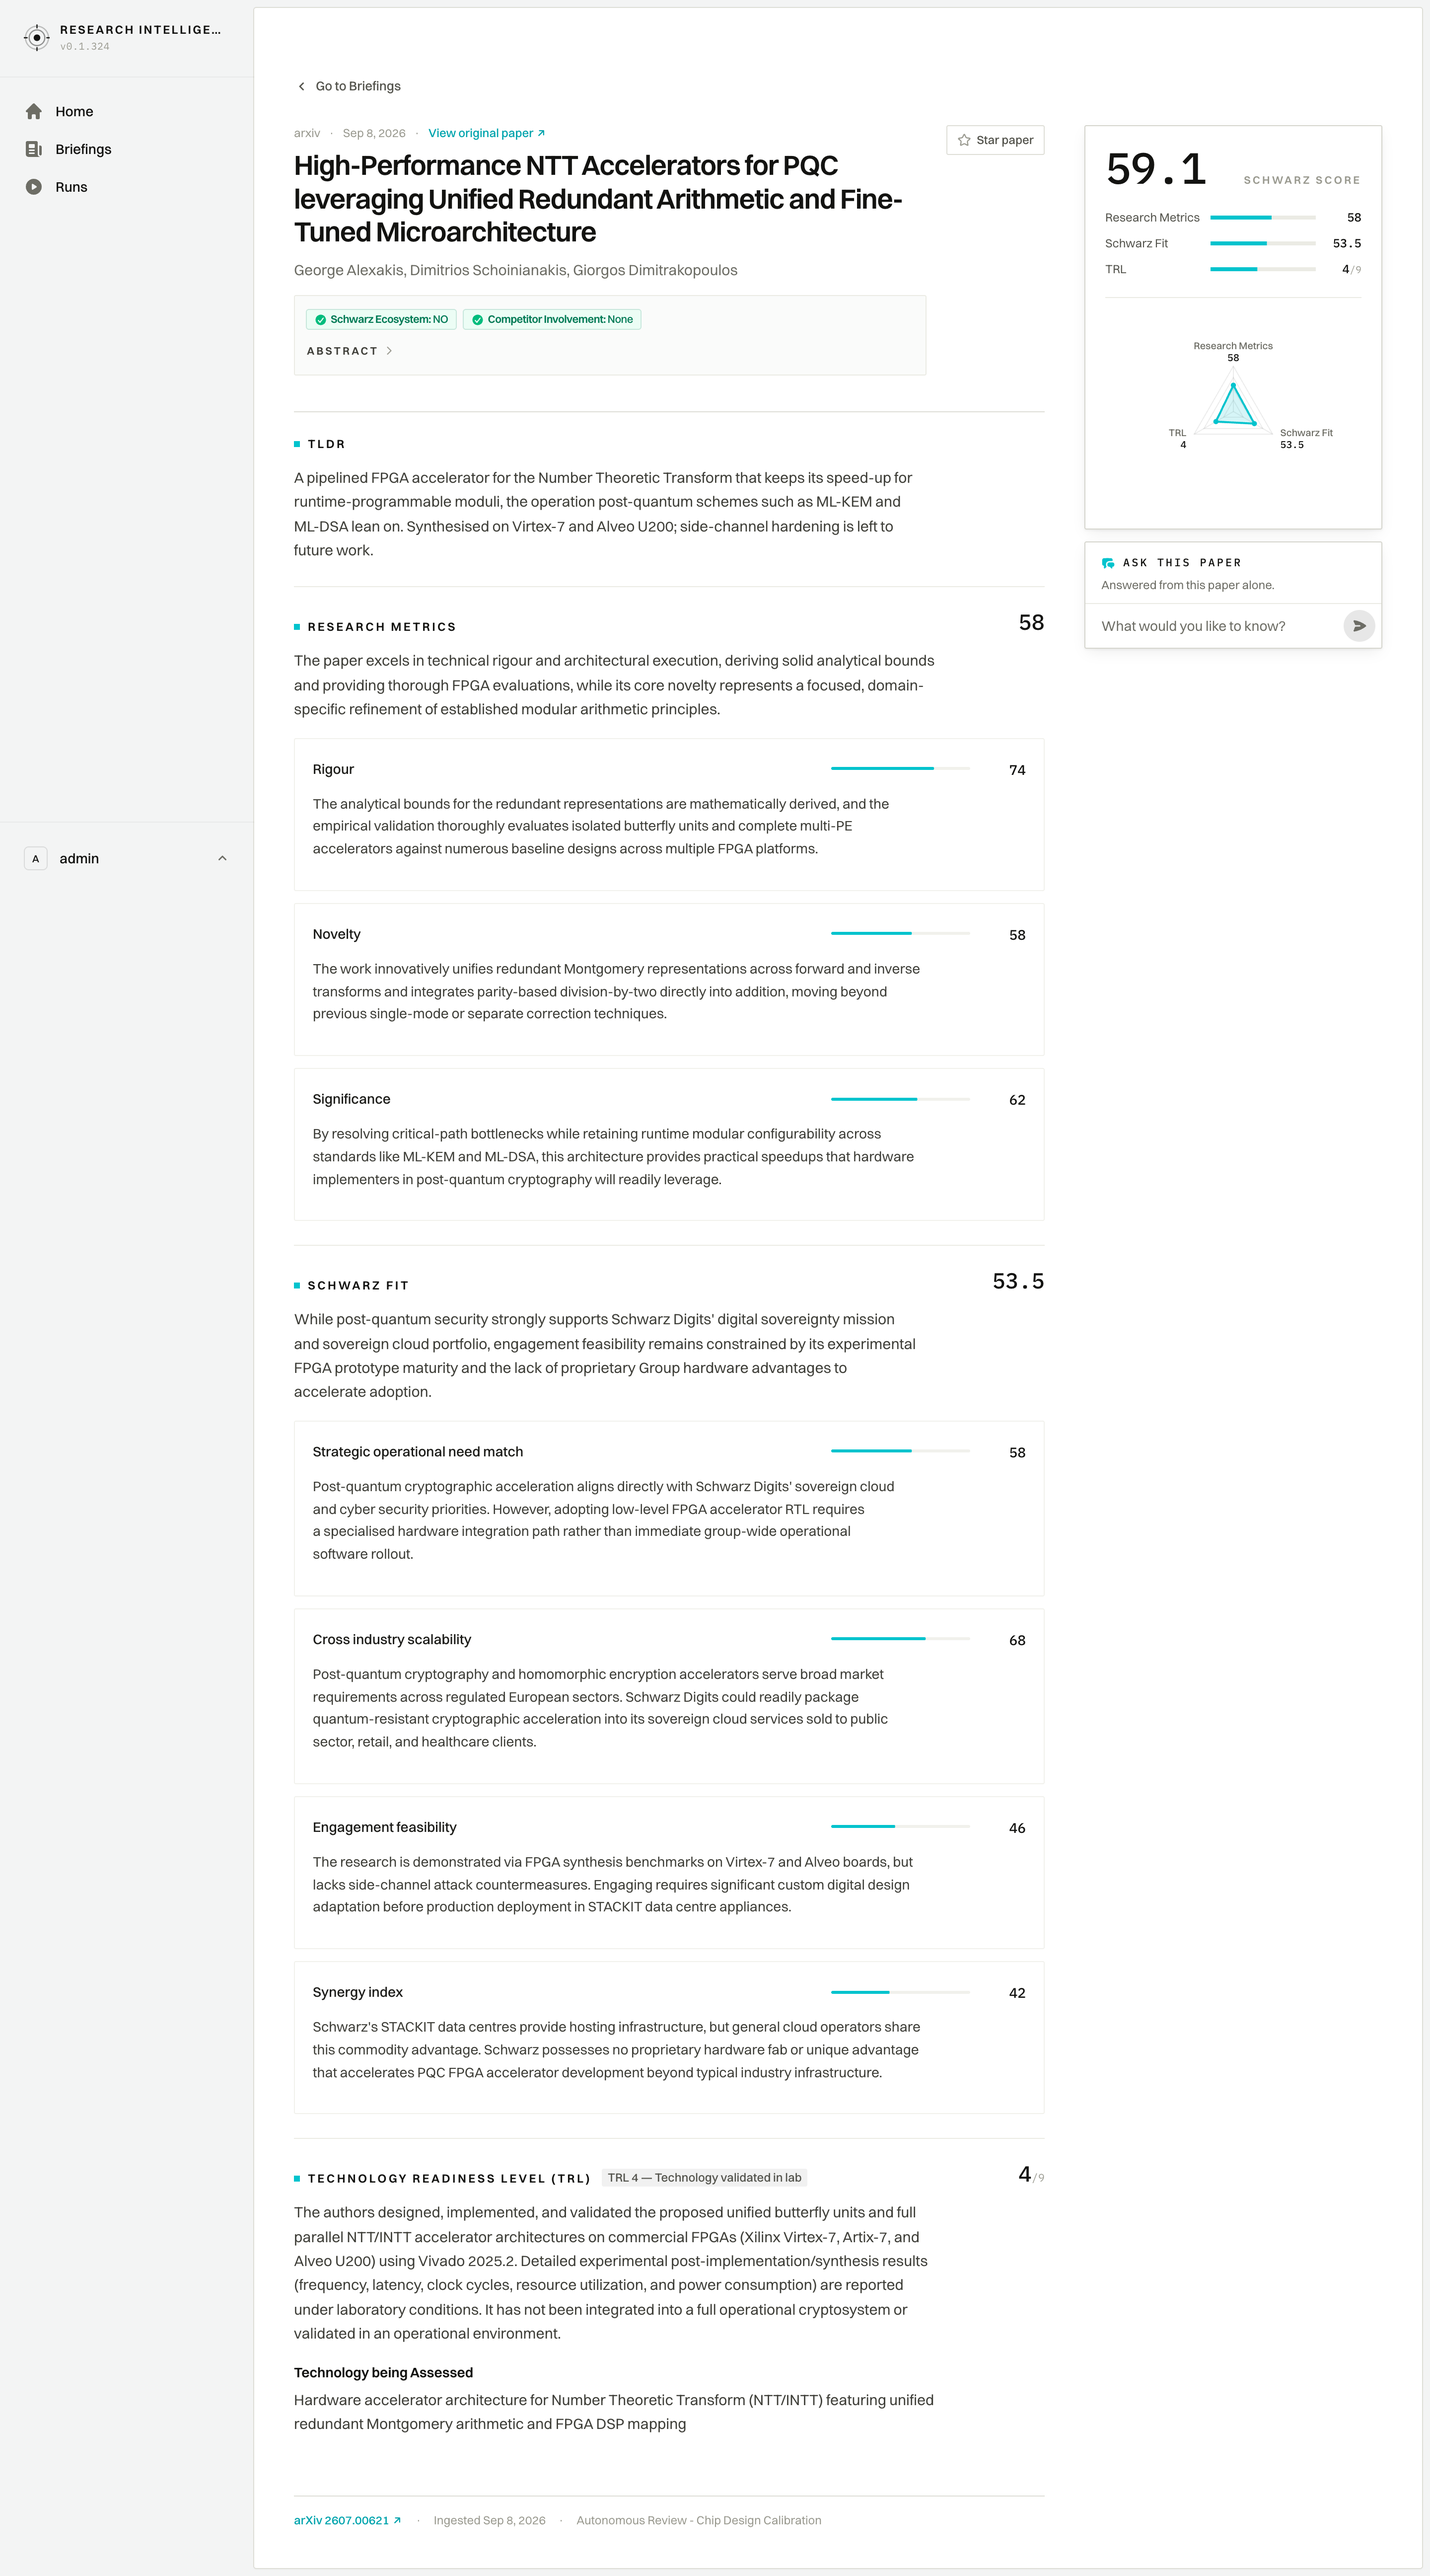
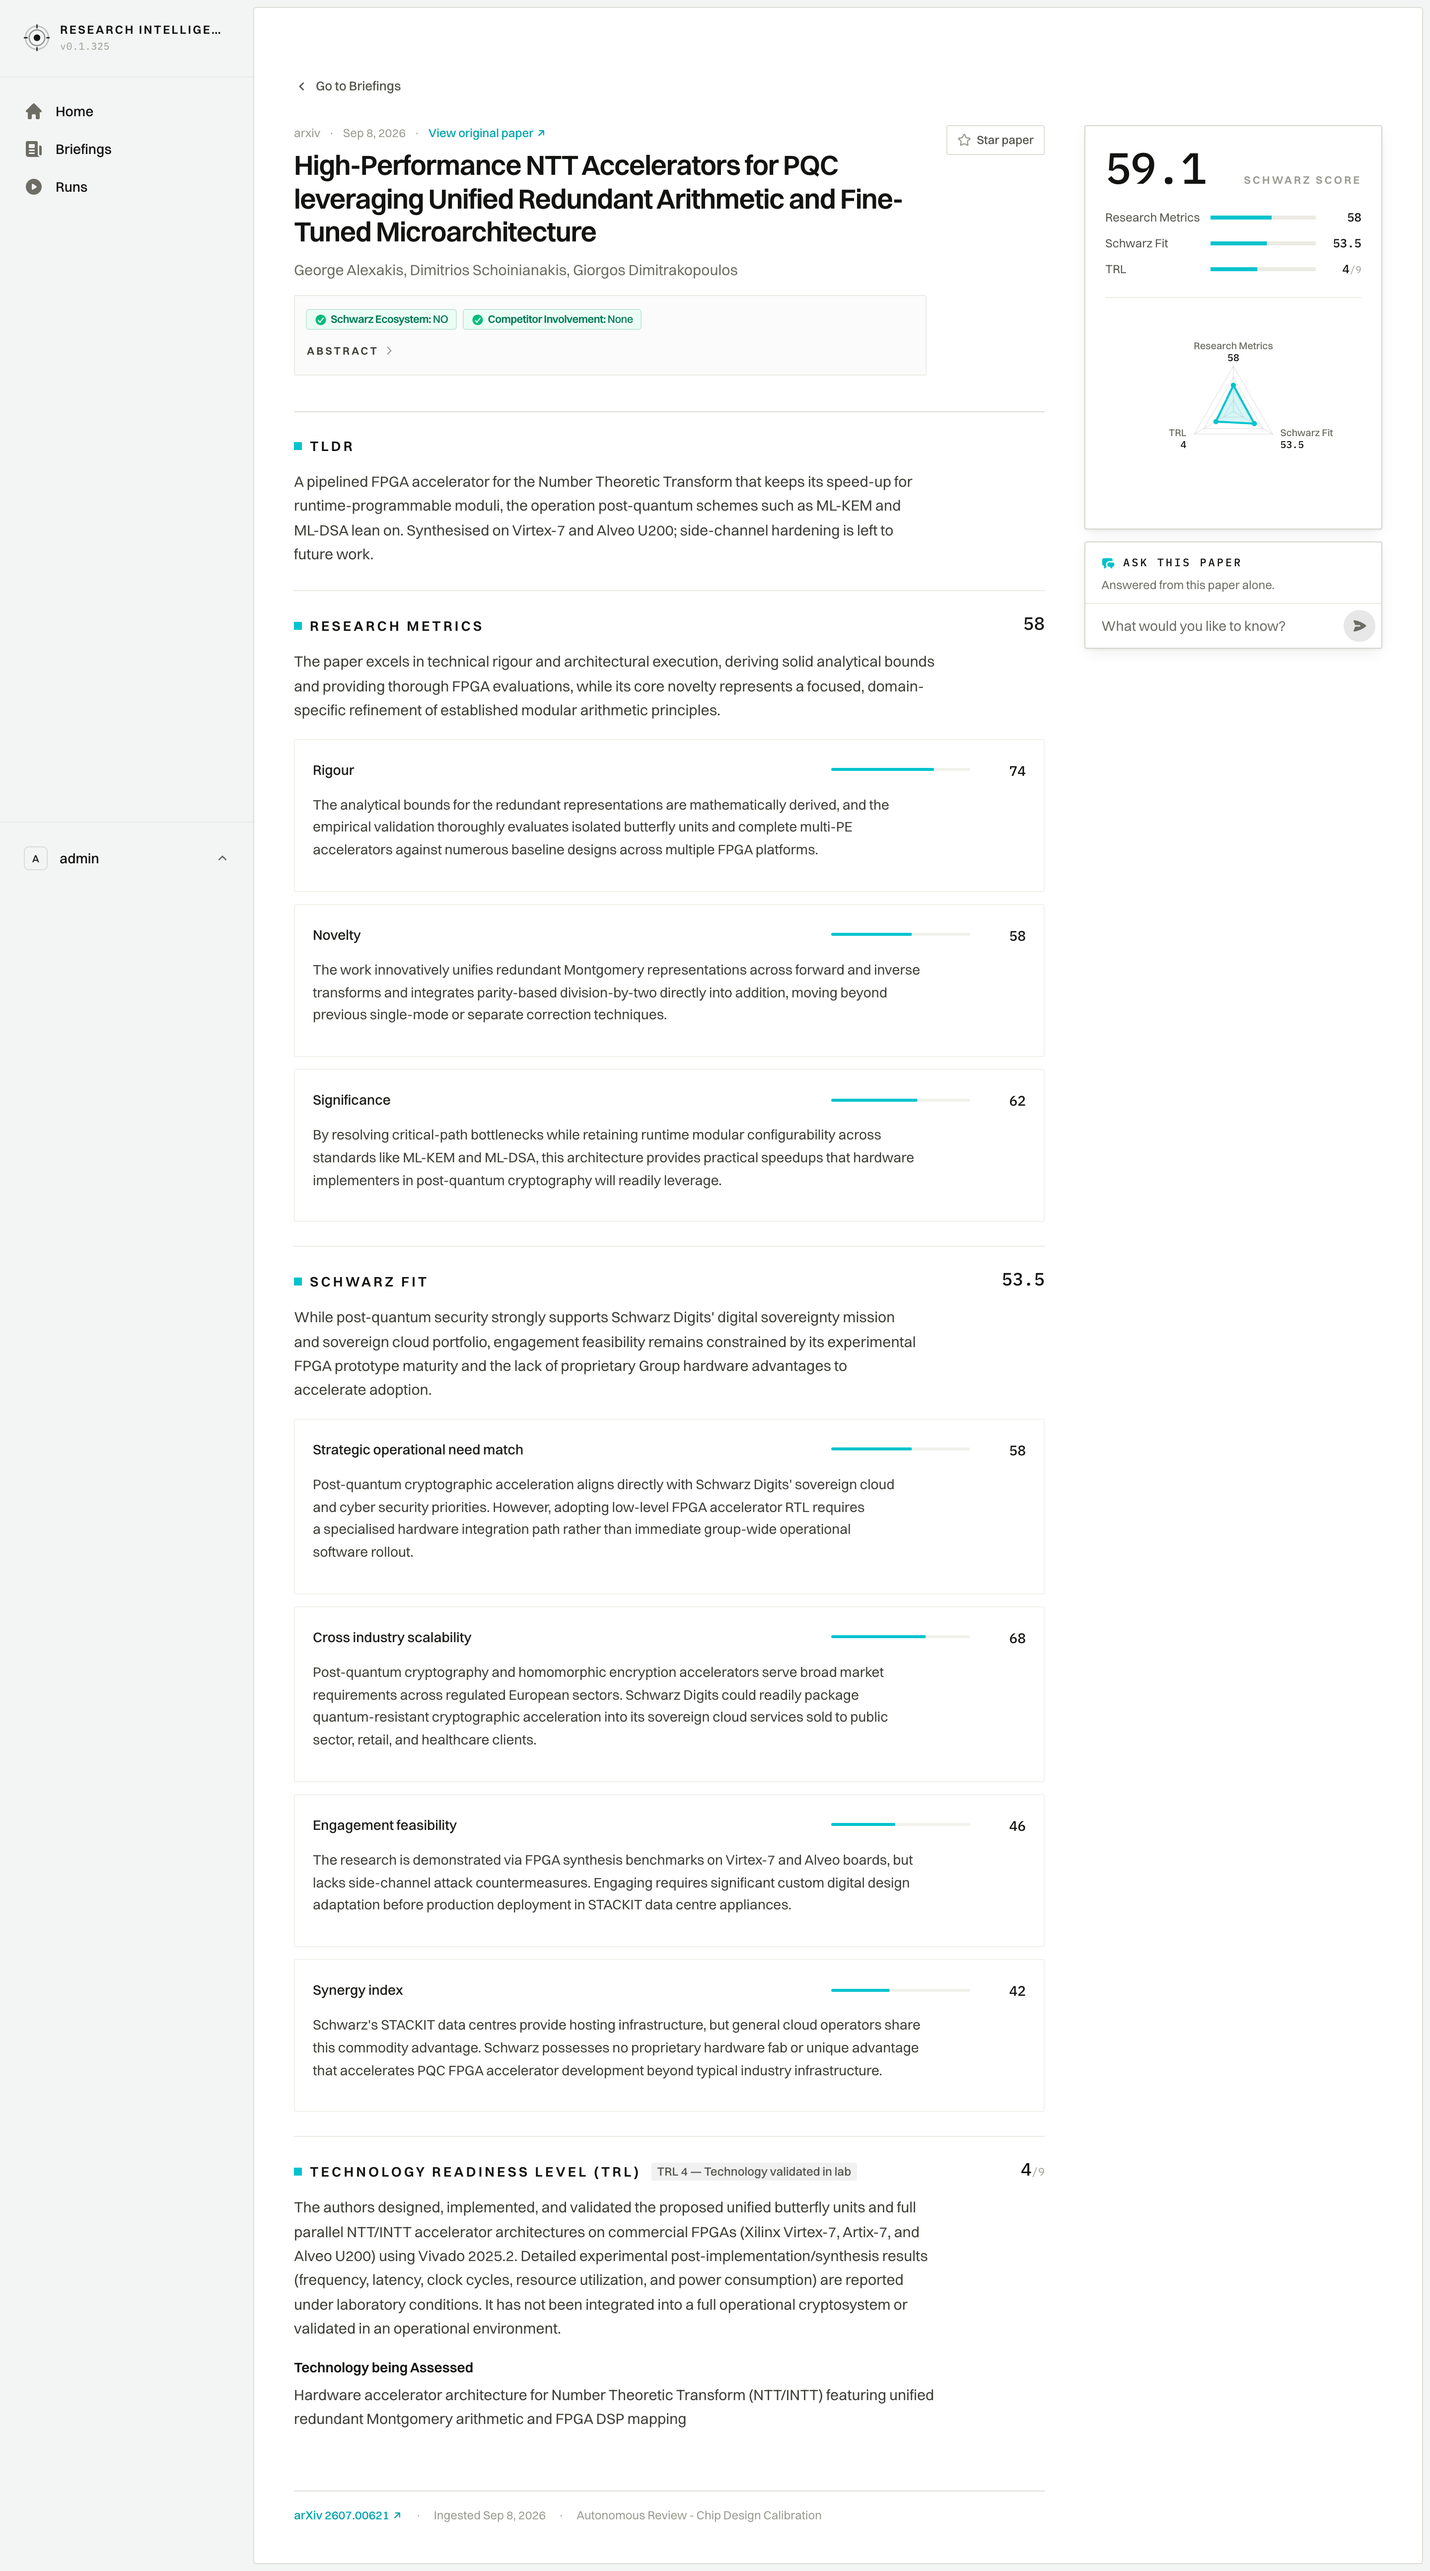
feat(paper): definition labels one step larger, score 18px, band folds under the label
The sm SectionLabel outranks the sub-score titles; the 22px figure no
longer reads as the heading. Header is a two-cell grid so TRL's band
wraps under its name at narrow widths while the figure holds its line.
Shots redone, 1024px capture added.

diff --git a/frontend/src/app/(sidebar)/papers/[id]/assessment.tsx b/frontend/src/app/(sidebar)/papers/[id]/assessment.tsx
@@ -76,11 +76,16 @@ export function DefinitionFrame({
       data-row="definition"
       className="scroll-mt-6 border-b border-line-soft py-6 last:border-b-0"
     >
-      <header className="flex items-baseline gap-2.5">
-        <SectionLabel>{name}</SectionLabel>
-        {band}
+      {/* Label and band in one wrapping cell, the figure in its own, so a
+          long name with a band (TRL) folds the band under the label at
+          narrow widths instead of pushing the figure onto a second line. */}
+      <header className="grid grid-cols-[minmax(0,1fr)_auto] items-baseline gap-x-3">
+        <div className="flex flex-wrap items-baseline gap-x-2.5 gap-y-1">
+          <SectionLabel size="sm">{name}</SectionLabel>
+          {band}
+        </div>
         {value != null && value !== '' ? (
-          <span className={clsx(FIGURE, 'ml-auto shrink-0 text-[22px] leading-none')}>{value}</span>
+          <span className={clsx(FIGURE, 'shrink-0 text-lg leading-none')}>{value}</span>
         ) : null}
       </header>
       <div className="mt-3.5 space-y-4">{children}</div>
